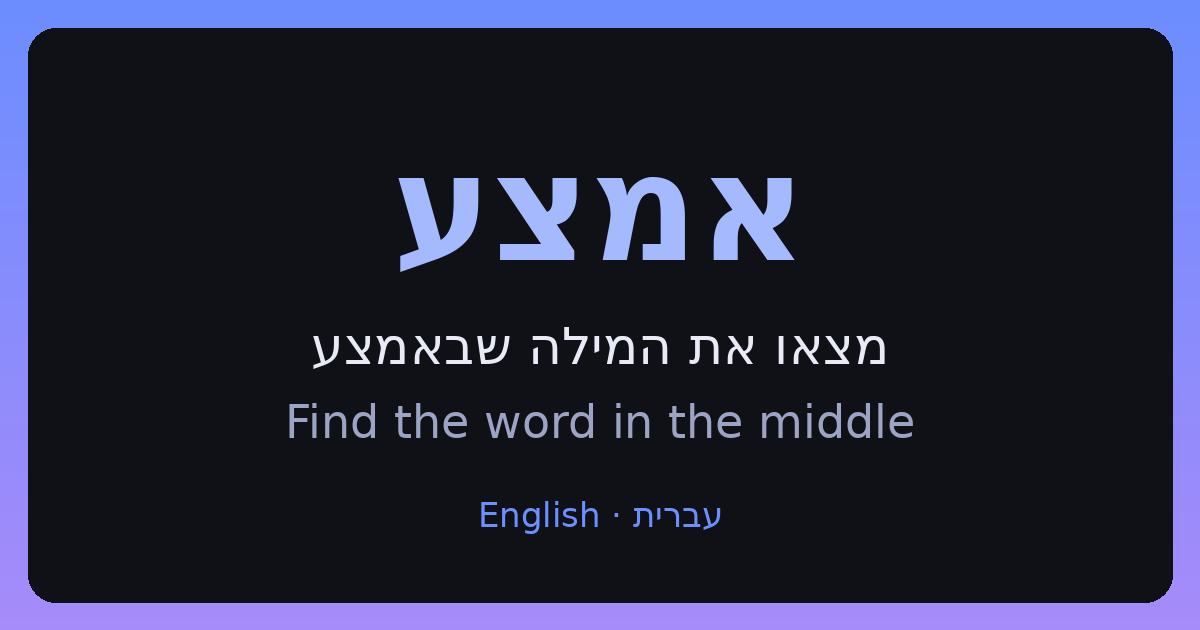
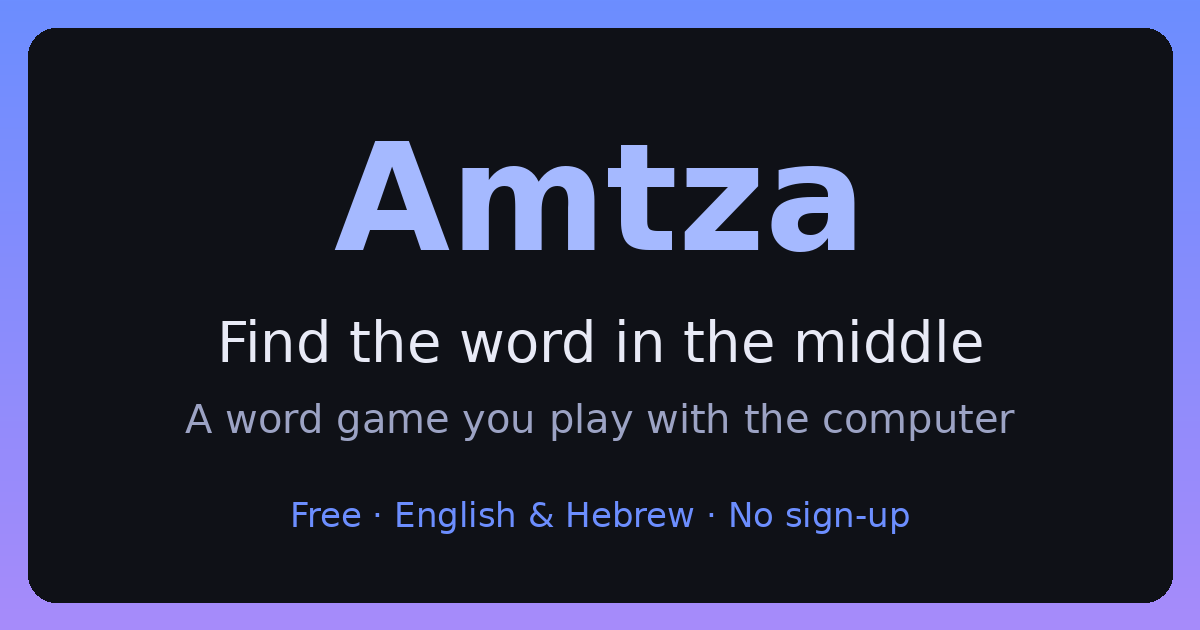
Make the link preview English-only; record the 100-player load test
The preview card (og:image and the og/twitter title and description) is what a
LinkedIn audience sees before clicking, and most of it doesn't read Hebrew. It
now says "Amtza - Find the word in the middle" with an English card image; the
game itself stays bilingual and the card says so. <title> and the meta
description stay Hebrew-first for Israeli search results.

README: the loadtest workflow's first run against the live free instance, 100
simulated players from 10 runners: 5,818 requests over 3.7 minutes, 0 errors,
guesses p50 122ms / p95 152ms (two days earlier the same server saturated at
~25 players).

diff --git a/frontend/index.html b/frontend/index.html
@@ -25,21 +25,24 @@
     <link rel="alternate" hreflang="x-default" href="https://amtza.netlify.app/" />
 
     <meta property="og:type" content="website" />
-    <meta property="og:site_name" content="אמצע" />
-    <meta property="og:title" content="אמצע (Amtza) - מצאו את המילה שבאמצע | Find the word in the middle" />
+    <meta property="og:site_name" content="Amtza" />
+    <meta property="og:title" content="Amtza - Find the word in the middle" />
     <meta
       property="og:description"
-      content="משחק מילים שיתופי: אתם והמחשב מחפשים יחד את המילה שבאמצע בין שתי מילים. עברית ואנגלית, חינם, בלי הרשמה. A cooperative word game: you and the computer try to land on the same word in the middle."
+      content="A cooperative word game: you and the computer each pick the word between two words, until you land on the same one. Free, in English and Hebrew, no sign-up."
     />
     <meta property="og:url" content="https://amtza.netlify.app/" />
-    <meta property="og:locale" content="he_IL" />
-    <meta property="og:locale:alternate" content="en_US" />
+    <!-- The link preview (og:*, twitter:*) is English only, for a LinkedIn
+         audience that mostly doesn't read Hebrew. <title> and the meta
+         description stay Hebrew-first for Israeli search results. -->
+    <meta property="og:locale" content="en_US" />
+    <meta property="og:locale:alternate" content="he_IL" />
     <meta property="og:image" content="https://amtza.netlify.app/og-image.png" />
     <meta name="twitter:card" content="summary_large_image" />
-    <meta name="twitter:title" content="אמצע (Amtza) - מצאו את המילה שבאמצע | Find the word in the middle" />
+    <meta name="twitter:title" content="Amtza - Find the word in the middle" />
     <meta
       name="twitter:description"
-      content="משחק מילים שיתופי בעברית ובאנגלית. אתם והמחשב מחפשים את המילה שבאמצע."
+      content="A cooperative word game in English and Hebrew: you and the computer look for the word in the middle."
     />
     <meta name="twitter:image" content="https://amtza.netlify.app/og-image.png" />
 

diff --git a/scripts/make_og_image.py b/scripts/make_og_image.py
@@ -8,17 +8,20 @@ It has to be a raster image: og:image is read by Facebook, WhatsApp, Slack and
 X, none of which render SVG, so the app's own SVG assets can't stand in.
 
 1200x630 is the size every one of those crops to.
+
+English only, by choice: the card is what a LinkedIn audience sees before
+clicking, and most of it doesn't read Hebrew. The game itself stays bilingual
+and the line at the bottom says so.
 """
-from PIL import Image, ImageDraw, ImageFont, features
+from PIL import Image, ImageDraw, ImageFont
 from pathlib import Path
 
 OUT = Path(__file__).resolve().parent.parent / "frontend" / "public" / "og-image.png"
 W, H = 1200, 630
 
-# Pillow bundles libraqm, which applies the bidi algorithm, so Hebrew strings are
-# passed in logical order and come out laid right-to-left. Reversing them by hand
-# — the usual workaround when raqm is absent — renders אמצע as עצמא here.
-assert features.check("raqm"), "Pillow without raqm would lay Hebrew out left-to-right"
+# If Hebrew text ever comes back to this card: Pillow needs libraqm (bidi) to lay
+# it out right-to-left, so check features.check("raqm") and pass strings in
+# logical order. Reversing them by hand renders אמצע as עצמא.
 
 img = Image.new("RGB", (W, H), "#0f1117")
 d = ImageDraw.Draw(img)
@@ -34,8 +37,8 @@ d.rounded_rectangle([28, 28, W - 28, H - 28], radius=28, fill="#0f1117")
 
 FONT_DIR = "/usr/share/fonts/truetype/dejavu"
 f_title = ImageFont.truetype(f"{FONT_DIR}/DejaVuSans-Bold.ttf", 150)
-f_he = ImageFont.truetype(f"{FONT_DIR}/DejaVuSans.ttf", 52)
-f_en = ImageFont.truetype(f"{FONT_DIR}/DejaVuSans.ttf", 46)
+f_tag = ImageFont.truetype(f"{FONT_DIR}/DejaVuSans.ttf", 56)
+f_sub = ImageFont.truetype(f"{FONT_DIR}/DejaVuSans.ttf", 40)
 f_foot = ImageFont.truetype(f"{FONT_DIR}/DejaVuSans.ttf", 34)
 
 
@@ -43,10 +46,10 @@ def centre(text, font, y, fill):
     d.text(((W - d.textbbox((0, 0), text, font=font)[2]) / 2, y), text, font=font, fill=fill)
 
 
-centre("אמצע", f_title, 120, "#a5b9ff")
-centre("מצאו את המילה שבאמצע", f_he, 315, "#e8eaf6")
-centre("Find the word in the middle", f_en, 395, "#9ca3c4")
-centre("עברית · English", f_foot, 495, "#6c8eff")
+centre("Amtza", f_title, 110, "#a5b9ff")
+centre("Find the word in the middle", f_tag, 310, "#e8eaf6")
+centre("A word game you play with the computer", f_sub, 395, "#9ca3c4")
+centre("Free · English & Hebrew · No sign-up", f_foot, 495, "#6c8eff")
 
 img.save(OUT, optimize=True)
 print(f"wrote {OUT} ({img.size[0]}x{img.size[1]})")

diff --git a/README.md b/README.md
@@ -326,11 +326,22 @@ trigger a redeploy for it to take effect.
 
 ## Launch checklist (sharing it publicly)
 
-Measured on the live free instance (0.1 CPU, Oregon) on 2026-11-13: no errors with
-40 simultaneous simulated players, but the server tops out around 12 guesses a
-second, so past ~25 people actively playing at once every guess waits 2-6s.
-About 0.4s of every request is the trip to Oregon. The free tier is enough for a
-LinkedIn post; these steps make the first impression good:
+**100 players at once on the free tier, measured.** On 2026-11-13 the live free
+instance (0.1 CPU, Oregon) topped out at ~12 guesses a second, so past ~25 active
+players every guess waited 2-6s. After the per-request work was cut (see the git
+log), the `loadtest` workflow ran 100 simulated players paced like people, from
+10 runners at once, on 2026-11-15:
+
+| request | count | errors | p50 | p95 | max |
+|---|---|---|---|---|---|
+| guess | 1,786 | 0 | 122ms | 152ms | 344ms |
+| word check | 3,572 | 0 | 120ms | 151ms | 366ms |
+| hint | 166 | 0 | 123ms | 158ms | 291ms |
+| new pair | 294 | 0 | 121ms | 262ms | 836ms |
+
+5,818 requests in 3.7 minutes (26 req/s), every one answered. Those times are
+from GitHub's US runners; a player in Israel adds ~0.3s of distance to Oregon.
+These steps make the first impression good:
 
 1. **Check the preview.** Paste the link into LinkedIn's
    [Post Inspector](https://www.linkedin.com/post-inspector/). LinkedIn caches
